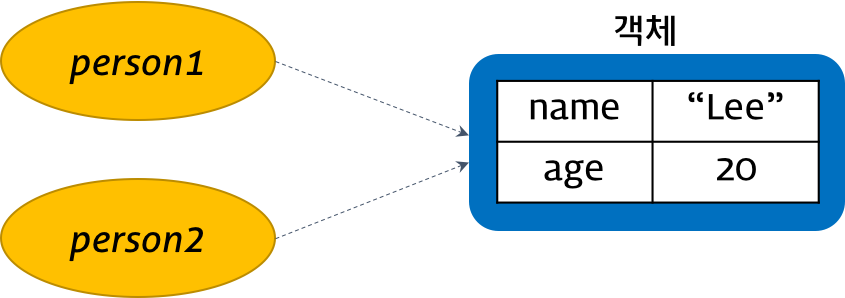
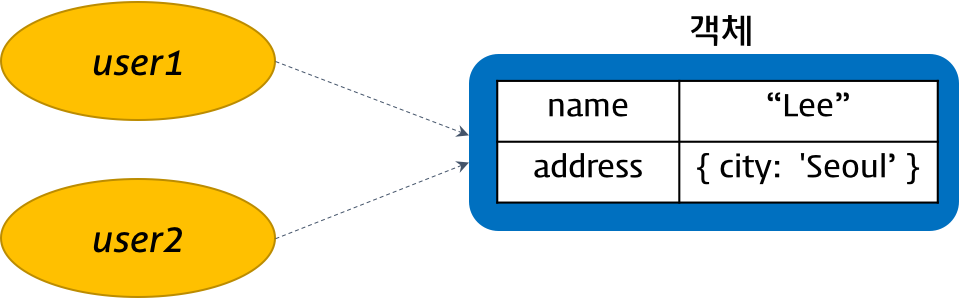
updated

diff --git a/_posts/2016-05-08-js-immutability.md b/_posts/2016-05-08-js-immutability.md
@@ -4,15 +4,19 @@ title: Javascript <strong>Immutability</strong>
 subtitle: 객체와 변경불가성(Immutability)
 categories: javascript
 section: javascript
-description: Immutability(변경불가성)은 함수형 프로그래밍의 핵심 원리이다. Immutability는 인스턴스화 된 후 무언가를 변경할 수 없는 디자인 패턴이다. 그 값을 변경하려면 새로운 값을 다시 만들어야한다. Javascript의 기본 자료형(primitive data type)은 변경 불가능한 값(immutable value)이다. 
+description: Immutability(변경불가성)은 함수형 프로그래밍의 핵심 원리이다. Immutability는 인스턴스화 된 후 무언가를 변경할 수 없는 디자인 패턴이다. 그 값을 변경하려면 새로운 값을 다시 만들어야한다. 객체는 변경 가능하기 때문에 의도치 않게 변경될 가능성이 있어서 데이터의 일관성을 유지하는 것이 곤란하다. 이는 규모가 작은 애플리케이션이라면 큰 문제가 되지 않을 수 있만 이는 커지면 커질 수록 문제가 될 수 있다. 객체를 변경 불가능한 값(immutable value)으로 만들어 사용하면 이러한 문제를 해결할 수 있다. ES6에서는 불변 데이터 패턴(immutable data pattern)을 쉽게 구현할 수 있는 새로운 기능이 추가되었다.
 ---
 
 * TOC
 {:toc}
 
-# 1. Immutability(변경불가성)이란?
-
 Immutability(변경불가성)은 함수형 프로그래밍의 핵심 원리이다. Immutability는 인스턴스화 된 후 무언가를 변경할 수 없는 디자인 패턴이다. 그 값을 변경하려면 새로운 값을 다시 만들어야한다.
+
+객체는 변경 가능하기 때문에 의도치 않게 변경될 가능성이 있어서 데이터의 일관성을 유지하는 것이 곤란하다. 이는 규모가 작은 애플리케이션이라면 큰 문제가 되지 않을 수 있만 이는 커지면 커질 수록 문제가 될 수 있다.
+
+객체를 변경 불가능한 값(immutable value)으로 만들어 사용하면 이러한 문제를 해결할 수 있다. ES6에서는 불변 데이터 패턴(immutable data pattern)을 쉽게 구현할 수 있는 새로운 기능이 추가되었다.
+
+# 1. Immutability(변경불가성)이란?
 
 Javascript의 기본 자료형(primitive data type)은 변경 불가능한 값(immutable value)이다.
 
@@ -53,45 +57,45 @@ console.log(arr.length); // 1
 다른 예를 알아보자. 
 
 ```javascript
-var person = {
+var user = {
   name: 'Lee',
-  age: 20
+  address: {
+    city: 'Seoul'
+  }
 };
 
-var myAge = person.age; // 변수 myAge는 number 타입이다.
+var myName = user.name; // 변수 myName은 string 타입이다.
 
-person.age = 30;
+user.name = 'Kim';
 
-console.log(myAge); // 20
+console.log(myName); // Lee
 ```
 
-person.age의 값을 변경했지만 myAge의 값은 변경되지 않았다. 이는 person.age의 타입 number가 변경 불가능하기 때문이다.
+user.name의 값을 변경했지만 변수 myName의 값은 변경되지 않았다. 이는 user.name의 타입 string이 변경 불가능하기 때문이다.
 
 ```javascript
-var person1 = {
+var user1 = {
   name: 'Lee',
-  age: 20
+  address: {
+    city: 'Seoul'
+  }
 };
 
-var person2 = person1; // 변수 person2는 객체 타입이다.
+var user2 = user1; // 변수 user2는 객체 타입이다.
 
-person2.age = 30;
+user2.name = 'Kim';
 
-console.log(person1.age); // 30
-console.log(person2.age); // 30
+console.log(user1.name); // Kim
+console.log(user2.name); // Kim
 ```
 
-위의 경우 객체 person2의 age의 값을 변경하면 객체 person1의 값도 변경된다. 이는 person1과 person2가 객체 타입이고 객체는 변경 가능하기 때문이다.
+위의 경우 객체 user2의 name 프로퍼티의 값을 변경하면 객체 user1의 값도 변경된다. 이는 user1과 user2가 객체 타입이고 객체는 변경 가능하기 때문이다.
 
 ![immutability](/img/immutability.png)
 {: .w-400}
 
 Pass-by-reference
 {: .desc-img}
-
-객체는 변경 가능하기 때문에 의도치 않게 값이 변경될 가능성이 있어서 데이터의 일관성을 유지하는 것이 곤란하다. 이는 규모가 작은 애플리케이션이라면 큰 문제가 되지 않을 수 있만 이는 커지면 커질 수록 문제가 될 수 있다.
-
-객체를 변경 불가능한 값(immutable value)으로 만들어 사용하면 이러한 문제를 해결할 수 있다. ES6에서는 불변 데이터 패턴(immutable data pattern)을 쉽게 구현할 수 있는 새로운 기능이 추가되었다.
 
 # 2. 불변 데이터 패턴(immutable data pattern)
 
@@ -130,33 +134,109 @@ console.log(merge2); // { a: 1, b: 2, c: 3 }
 console.log(o4);     // { a: 1 }
 ```
 
-Object.assign을 사용하여 기존 객체를 변경하지 않고 객체를 복사 할 수 있다.
+Object.assign을 사용하여 기존 객체를 변경하지 않고 객체를 복사하여 사용할 수 있다.
 
 ```javascript
-const person1 = {
+const user1 = {
   name: 'Lee',
-  age: 20
+  address: {
+    city: 'Seoul'
+  }
 };
 
-const person2 = Object.assign({}, person1); // person1을 {}에 Copy
+const user2 = Object.assign({}, user1); // user1을 {}에 Copy
 
-person2.age = 30;
+user2.name = 'Kim';
 
 // 상기 2행은 아래와 동치이다.
-// {age: 30}은 person1에 병합되는 것이 아니라 첫번째 인자인 {}에 병합된다. 
-// const person2 = Object.assign({}, person1, {age: 30});
+// {name: 'Kim'}은 user1에 병합되는 것이 아니라 첫번째 인자인 {}에 병합된다.
+// const user2 = Object.assign({}, user1, {name: 'Kim'});
 
-console.log(person1.age); // 20
-console.log(person2.age); // 30
+console.log(user1.name); // Lee
+console.log(user2.name); // Kim
 ```
 
-person1 객체를 빈객체에 복사하여 새로운 객체 person2를 생성하였다. person1과 person2는 어드레스를 공유하지 않으므로 한 객체를 변경하여도 다른 객체에 아무런 영향을 주지 않는다.
+user1 객체를 빈객체에 복사하여 새로운 객체 user2를 생성하였다. user1과 user2는 어드레스를 공유하지 않으므로 한 객체를 변경하여도 다른 객체에 아무런 영향을 주지 않는다.
 
-하지만 person1 객체는 const로 선언되어있지만 객체의 프로퍼티는 보호되지 않는다. 다시 말하자면 재할당은 불가능하지만 할당된 객체의 내용은 변경할 수 있다. [Object.freeze()](https://developer.mozilla.org/ko/docs/Web/JavaScript/Reference/Global_Objects/Object/freeze)를 사용하여 불변(immutable) 객체로 만들수 있지만 객체 내부의 객체(Nested Object)는 변경가능하다. 또한 Object.freeze()은 성능상 이슈가 있어서 큰 배열에는 사용하지 않아야 한다. 
+주의할 것은 user1 객체는 const로 선언되어 재할당은 할 수 없지만 객체의 프로퍼티는 보호되지 않는다. 다시 말하자면 객체의 내용은 변경할 수 있다.
 
-## 2.2 Immutable.js
+## 2.2 Object.freeze
 
-Object.assign()과 Object.freeze()로 불변(immutable) 객체를 만드는 것은 완전하지 않다. Facebook이 제공하는 [Immutable.js](https://facebook.github.io/immutable-js/)는 이러한 문제를 해결해 준다.
+[Object.freeze()](https://developer.mozilla.org/ko/docs/Web/JavaScript/Reference/Global_Objects/Object/freeze)를 사용하여 불변(immutable) 객체로 만들수 있다.
+
+```javascript
+const user1 = {
+  name: 'Lee',
+  address: {
+    city: 'Seoul'
+  }
+};
+
+const user2 = Object.assign({}, user1, {name: 'Kim'});
+
+console.log(user1.name); // Lee
+console.log(user2.name); // Kim
+
+Object.freeze(user1);
+
+user1.name = 'Kim'; // 무시된다!
+
+console.log(user1); // { name: 'Lee', address: { city: 'Seoul' } }
+
+console.log(Object.isFrozen(user1)); // true
+```
+
+하지만 객체 내부의 객체(Nested Object)는 변경가능하다.
+
+```javascript
+const user = {
+  name: 'Lee',
+  address: {
+    city: 'Seoul'
+  }
+};
+
+Object.freeze(user);
+
+user.address.city = 'Busan'; // 변경된다!
+console.log(user); // { name: 'Lee', address: { city: 'Busan' } }
+```
+
+내부 객체까지 변경 불가능하게 만들려면 Deep freeze를 하여야 한다.
+
+```javascript
+function deepFreeze(obj) {
+  const props = Object.getOwnPropertyNames(obj);
+
+  props.forEach((name) => {
+    const prop = obj[name];
+    if(typeof prop === 'object' && prop !== null) {
+      deepFreeze(prop);
+    }
+  });
+  return Object.freeze(obj);
+}
+
+const user = {
+  name: 'Lee',
+  address: {
+    city: 'Seoul'
+  }
+};
+
+deepFreeze(user);
+
+user.name = 'Kim';           // 무시된다
+user.address.city = 'Busan'; // 무시된다
+
+console.log(user); // { name: 'Lee', address: { city: 'Seoul' } }
+```
+
+## 2.3 Immutable.js
+
+Object.assign과 Object.freeze을 사용하여 불변 객체를 만드는 방법은 번거러울 뿐더러 성능상 이슈가 있어서 큰 객체에는 사용하지 않는 것이 좋다.
+
+또 다른 대안으로 Facebook이 제공하는 [Immutable.js](https://facebook.github.io/immutable-js/)를 사용하는 방법이 있다.
 
 Immutable.js는 List, Stack, Map, OrderedMap, Set, OrderedSet, Record와 같은 영구 불변 (Permit Immutable) 데이터 구조를 제공한다.
 
